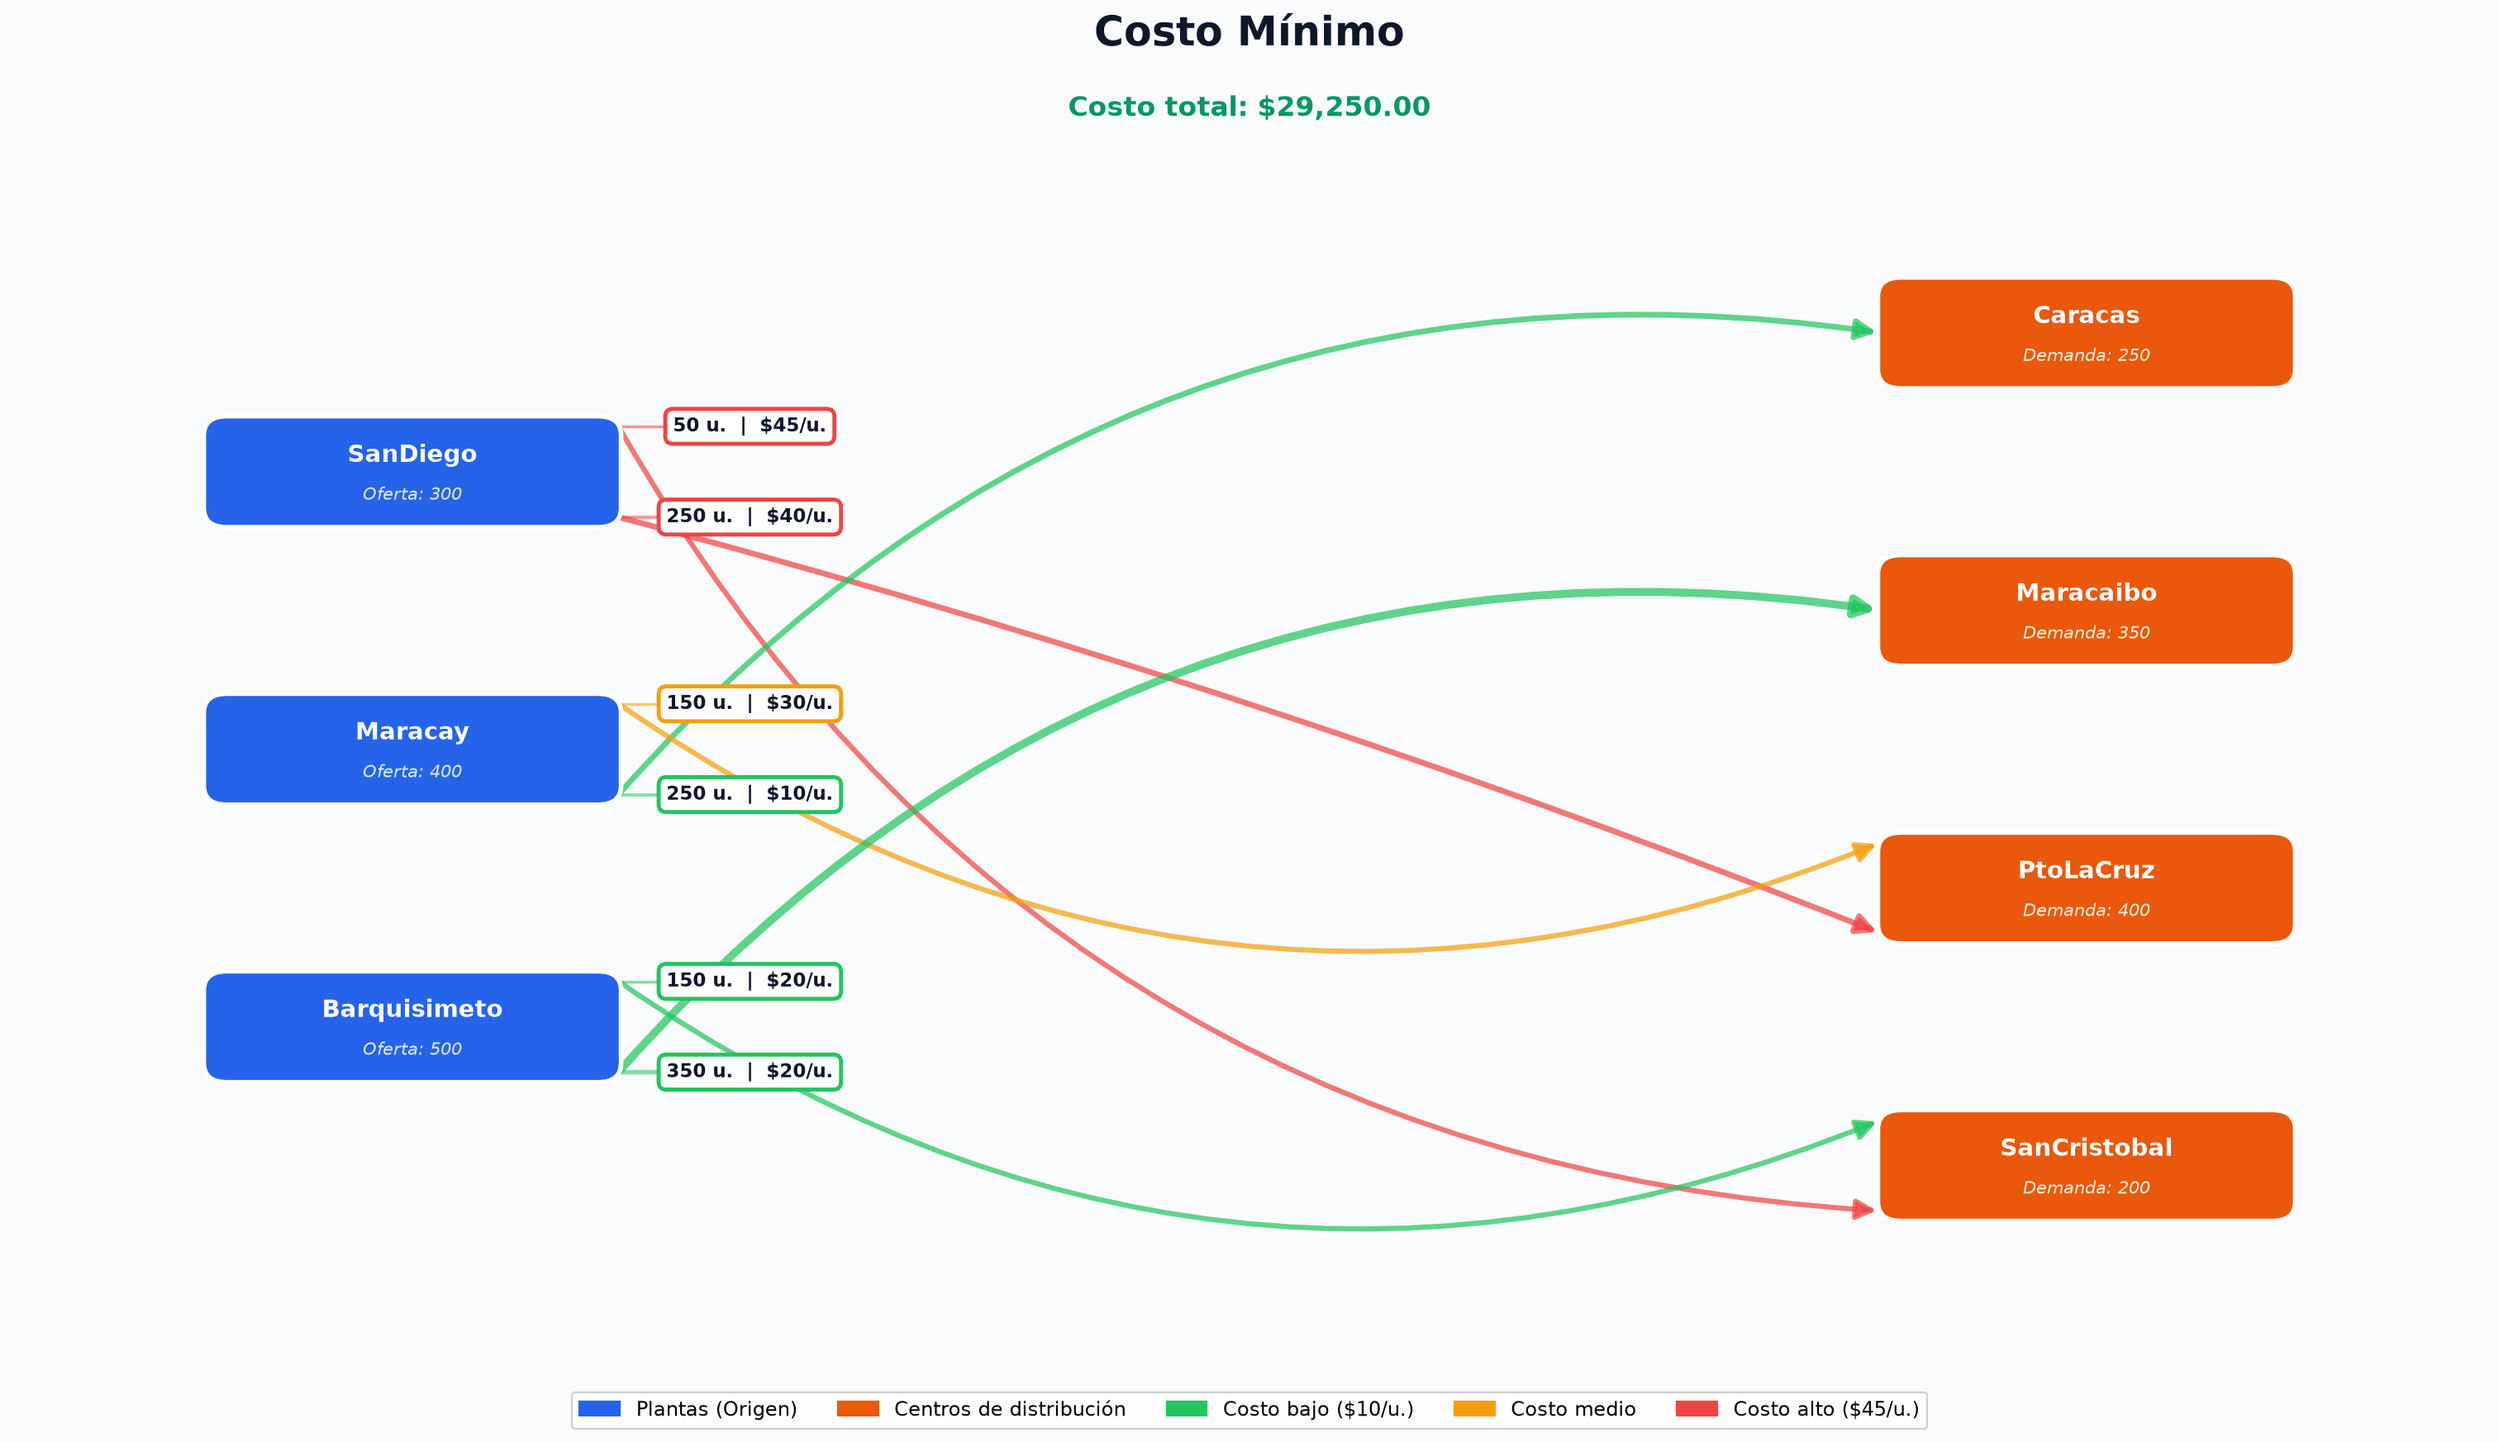
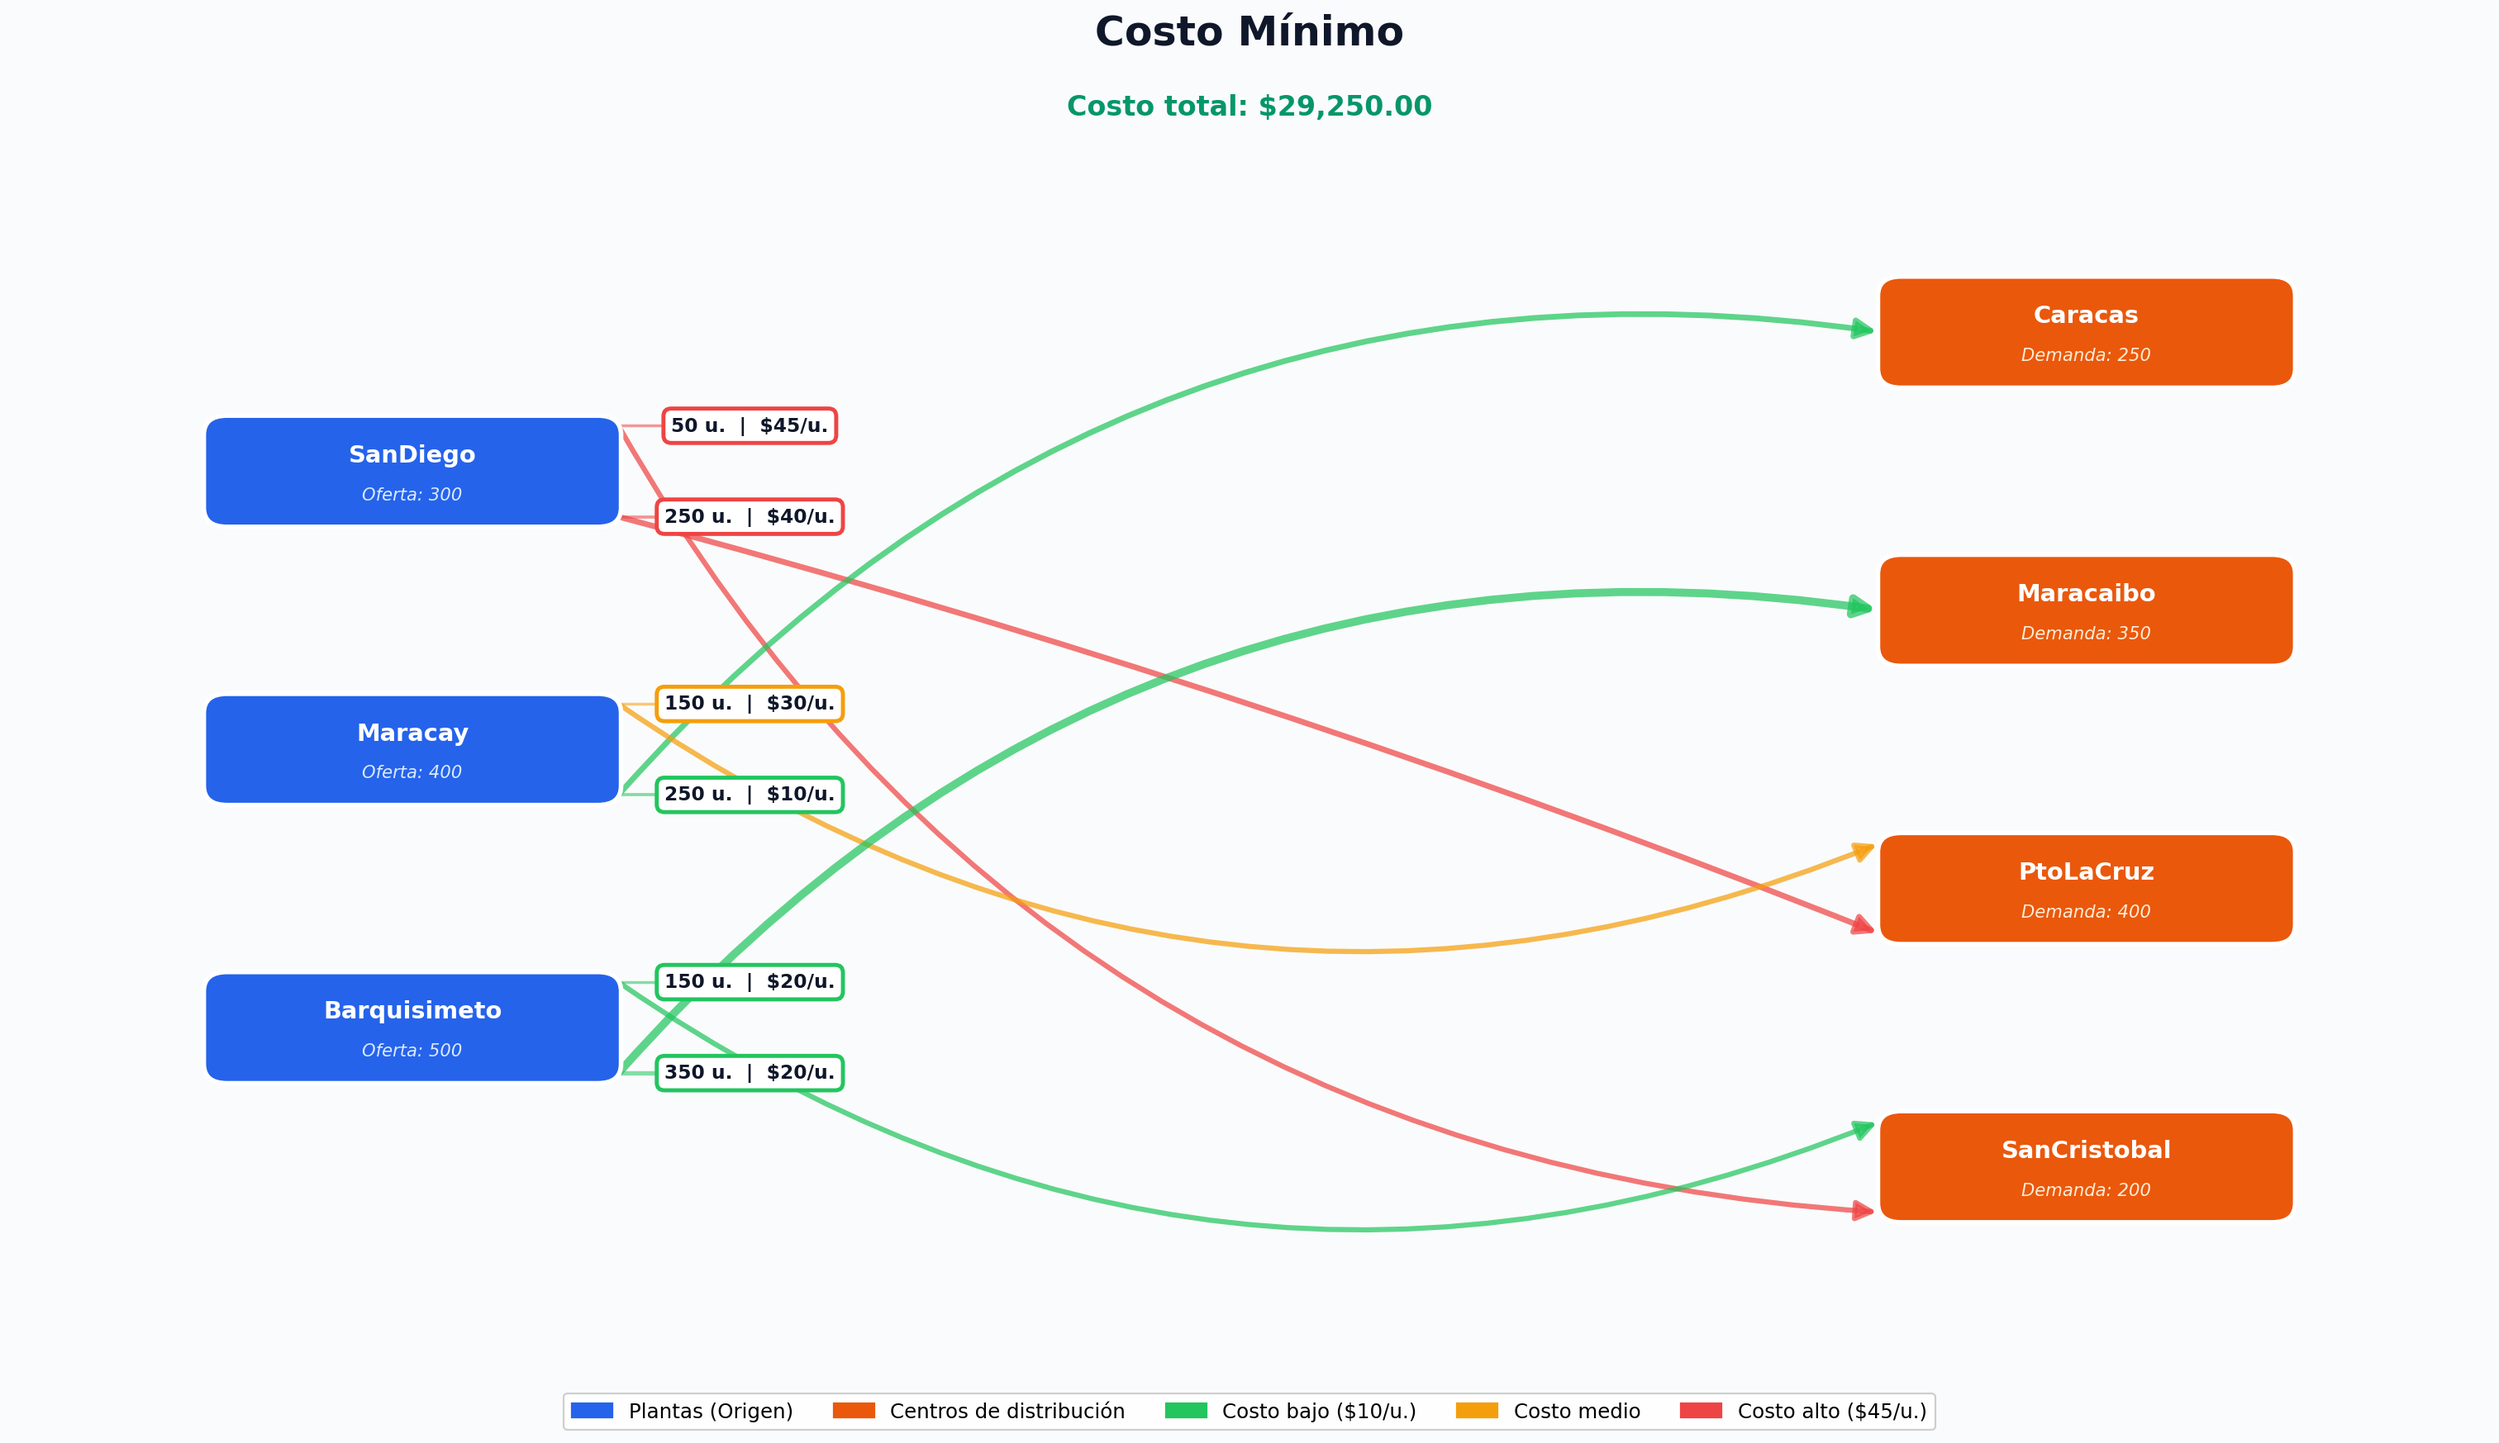
fotos y md

diff --git a/Reporte.md b/Reporte.md
@@ -1,0 +1,84 @@
+# Reporte de Ejecución — Optimización de Redes de Transporte con IA
+
+**Estudiante:** Luis Peña 
+**Cédula:** 30512332
+**Materia:** Programación Matemática
+**Fecha:** Octubre 2026
+
+---
+
+## 1. Captura de pantalla de la ejecución
+
+![Ejecución del programa](captura_ejecucion.png)
+
+---
+
+## 2. Costos totales calculados
+
+| Método | Costo Total |
+|---|---|
+| Esquina Noroeste | $42,500.00 |
+| Costo Mínimo | $29,250.00 |
+| **Vogel (VAM)** | **$27,500.00** ⭐ |
+
+**Mejor método:** Vogel (VAM) — $27,500.00
+
+---
+
+## 3. Conclusión textual de la IA
+
+> [PS C:\Users\Lulujax\Desktop\Universidad Luis UJAP\Transporte suministros\transporte-ia-rutas-suministros> & C:\Users\Lulujax\AppData\Local\Programs\Python\Python313\python.exe "c:/Users/Lulujax/Desktop/Universidad Luis UJAP/Transporte suministros/transporte-ia-rutas-suministros/main.py"
+======================================================================
+ OPTIMIZACIÓN DE REDES DE TRANSPORTE - Rutas y Suministros C.A.
+======================================================================
+
+¿Desea usar los datos por defecto? (s/n)
+>> S
+
+=== 1) Esquina Noroeste ===
+                   D1-CaracasD2-MaracaiboD3-PtoLaCruzD4-SanCristobal      Oferta
+-----------------------------------------------------------------------------
+O1-SanDiego               250          50           0           0         300
+O2-Maracay                  0         300         100           0         400
+O3-Barquisimeto             0           0         300         200         500
+-----------------------------------------------------------------------------
+Demanda                   250         350         400         200
+Costo Total = $42,500.00
+
+=== 2) Costo Mínimo ===
+                   D1-CaracasD2-MaracaiboD3-PtoLaCruzD4-SanCristobal      Oferta
+-----------------------------------------------------------------------------
+O1-SanDiego                 0           0         250          50         300
+O2-Maracay                250           0         150           0         400
+O3-Barquisimeto             0         350           0         150         500
+-----------------------------------------------------------------------------
+Demanda                   250         350         400         200
+Costo Total = $29,250.00
+
+=== 3) Vogel (VAM) ===
+                   D1-CaracasD2-MaracaiboD3-PtoLaCruzD4-SanCristobal      Oferta
+-----------------------------------------------------------------------------
+O1-SanDiego               250          50           0           0         300
+O2-Maracay                  0           0         400           0         400
+O3-Barquisimeto             0         300           0         200         500
+-----------------------------------------------------------------------------
+Demanda                   250         350         400         200
+Costo Total = $27,500.00
+
+======================================================================
+🏆 MEJOR MÉTODO: Vogel (VAM)  →  $27,500.00
+======================================================================
+[OK] Grafo guardado en: grafos/esquina_noroeste.png
+[OK] Grafo guardado en: grafos/costo_minimo.png
+[OK] Grafo guardado en: grafos/vogel.png
+
+--- Consultando IA (Consultor Logístico) ---
+
+======================================================================
+ CONCLUSIÓN DEL CONSULTOR LOGÍSTICO (IA)
+======================================================================
+El Método de Aproximación de Vogel (VAM) superó matemáticamente a la Esquina Noroeste (generando un ahorro del 35.3%) y al Costo Mínimo (ahorro del 6.0%) debido a su enfoque basado en el **costo de oportunidad**. Mientras que la Esquina Noroeste asigna carga de forma ciega sin considerar tarifas y el Costo Mínimo opera bajo una heurística miope (*greedy*) que suele castigar severamente las últimas asignaciones, VAM calcula las penalizaciones marginales por fila y columna. Al priorizar las rutas cuya omisión implicaría el mayor salto de costo unitario hacia la siguiente mejor alternativa, VAM minimiza el riesgo de incurrir en fletes prohibitivos, convergiendo en una solución base prácticamente óptima de $27,500.00.
+
+Desde la perspectiva operativa, la distribución resultante posee **pleno sentido de negocio y coherencia geográfica**. La red aprovecha eficientemente los corredores viales naturales de Venezuela: Barquisimeto se consolida como el *hub* del eje occidental para suplir a Maracaibo (300 uds) y los Andes/San Cristóbal (200 uds); paralelamente, los centros de la región central absorben la gran demanda de la Capital (San Diego abasteciendo 250 uds a Caracas) y el enlace hacia el Oriente (Maracay cubriendo de forma exclusiva las 400 uds de Puerto La Cruz). Esta zonificación mitiga el riesgo de contraflujos innecesarios, compacta los tiempos de ciclo de la flota y valida que la solución no solo optimiza el balance de costos en papel, sino que es ejecutable y sostenible para la operación de Rutas y Suministros C.A.
+
+[OK] Resultados guardados en 'salida_ia.txt']
